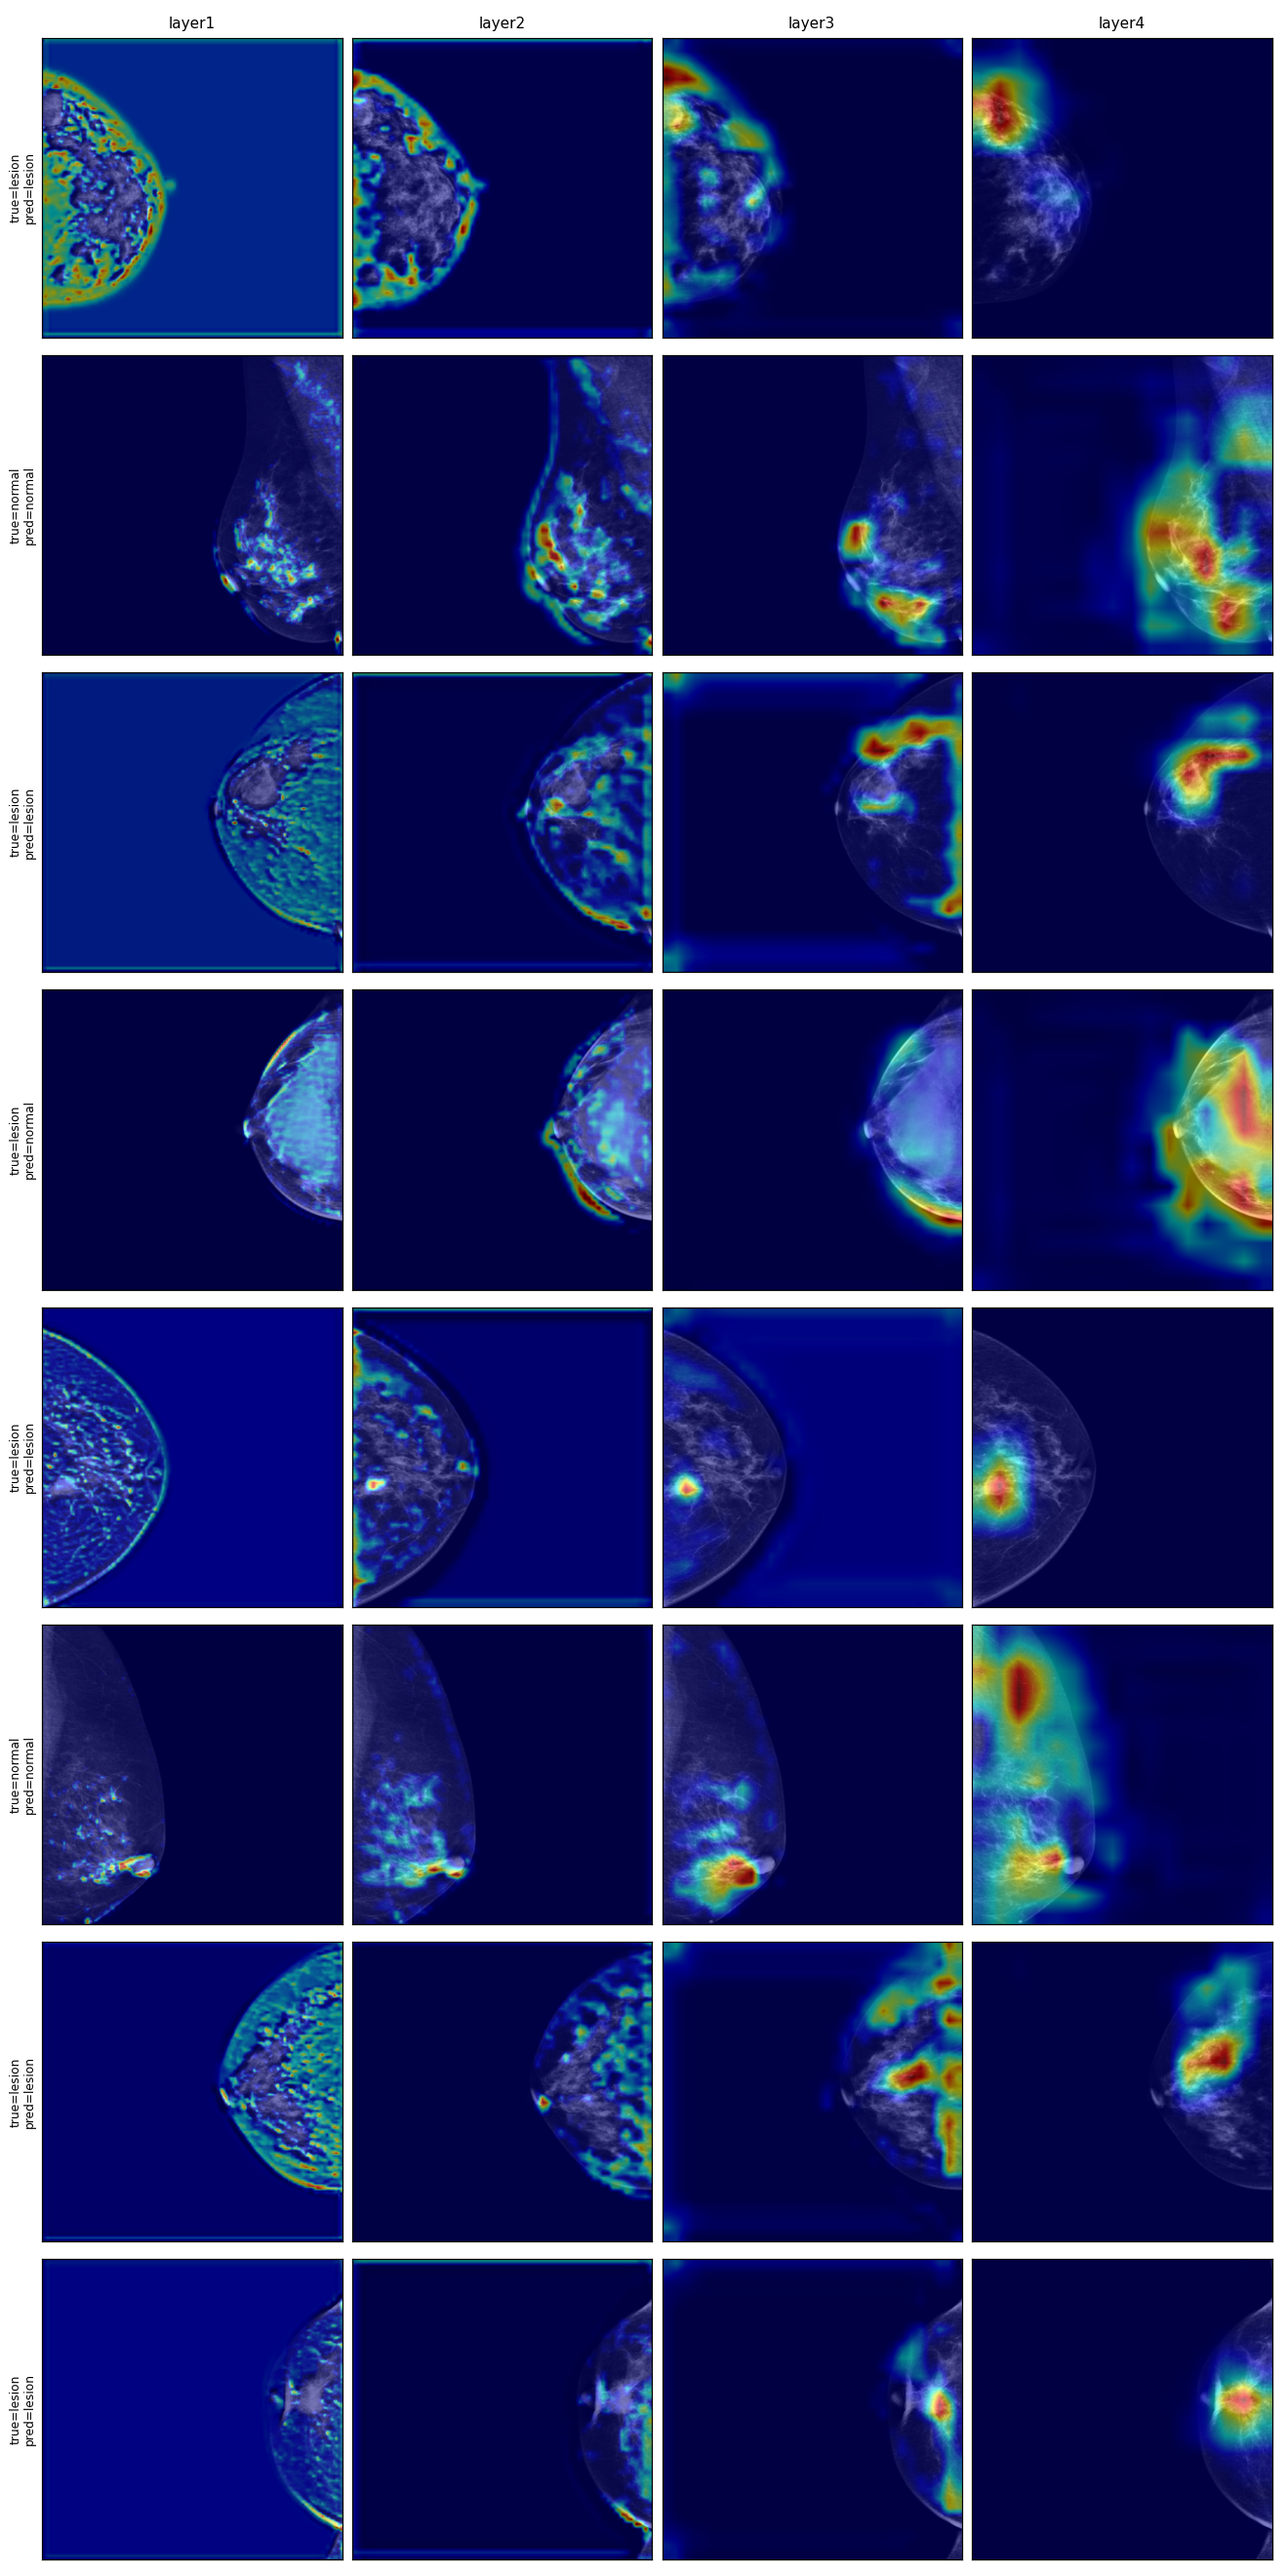
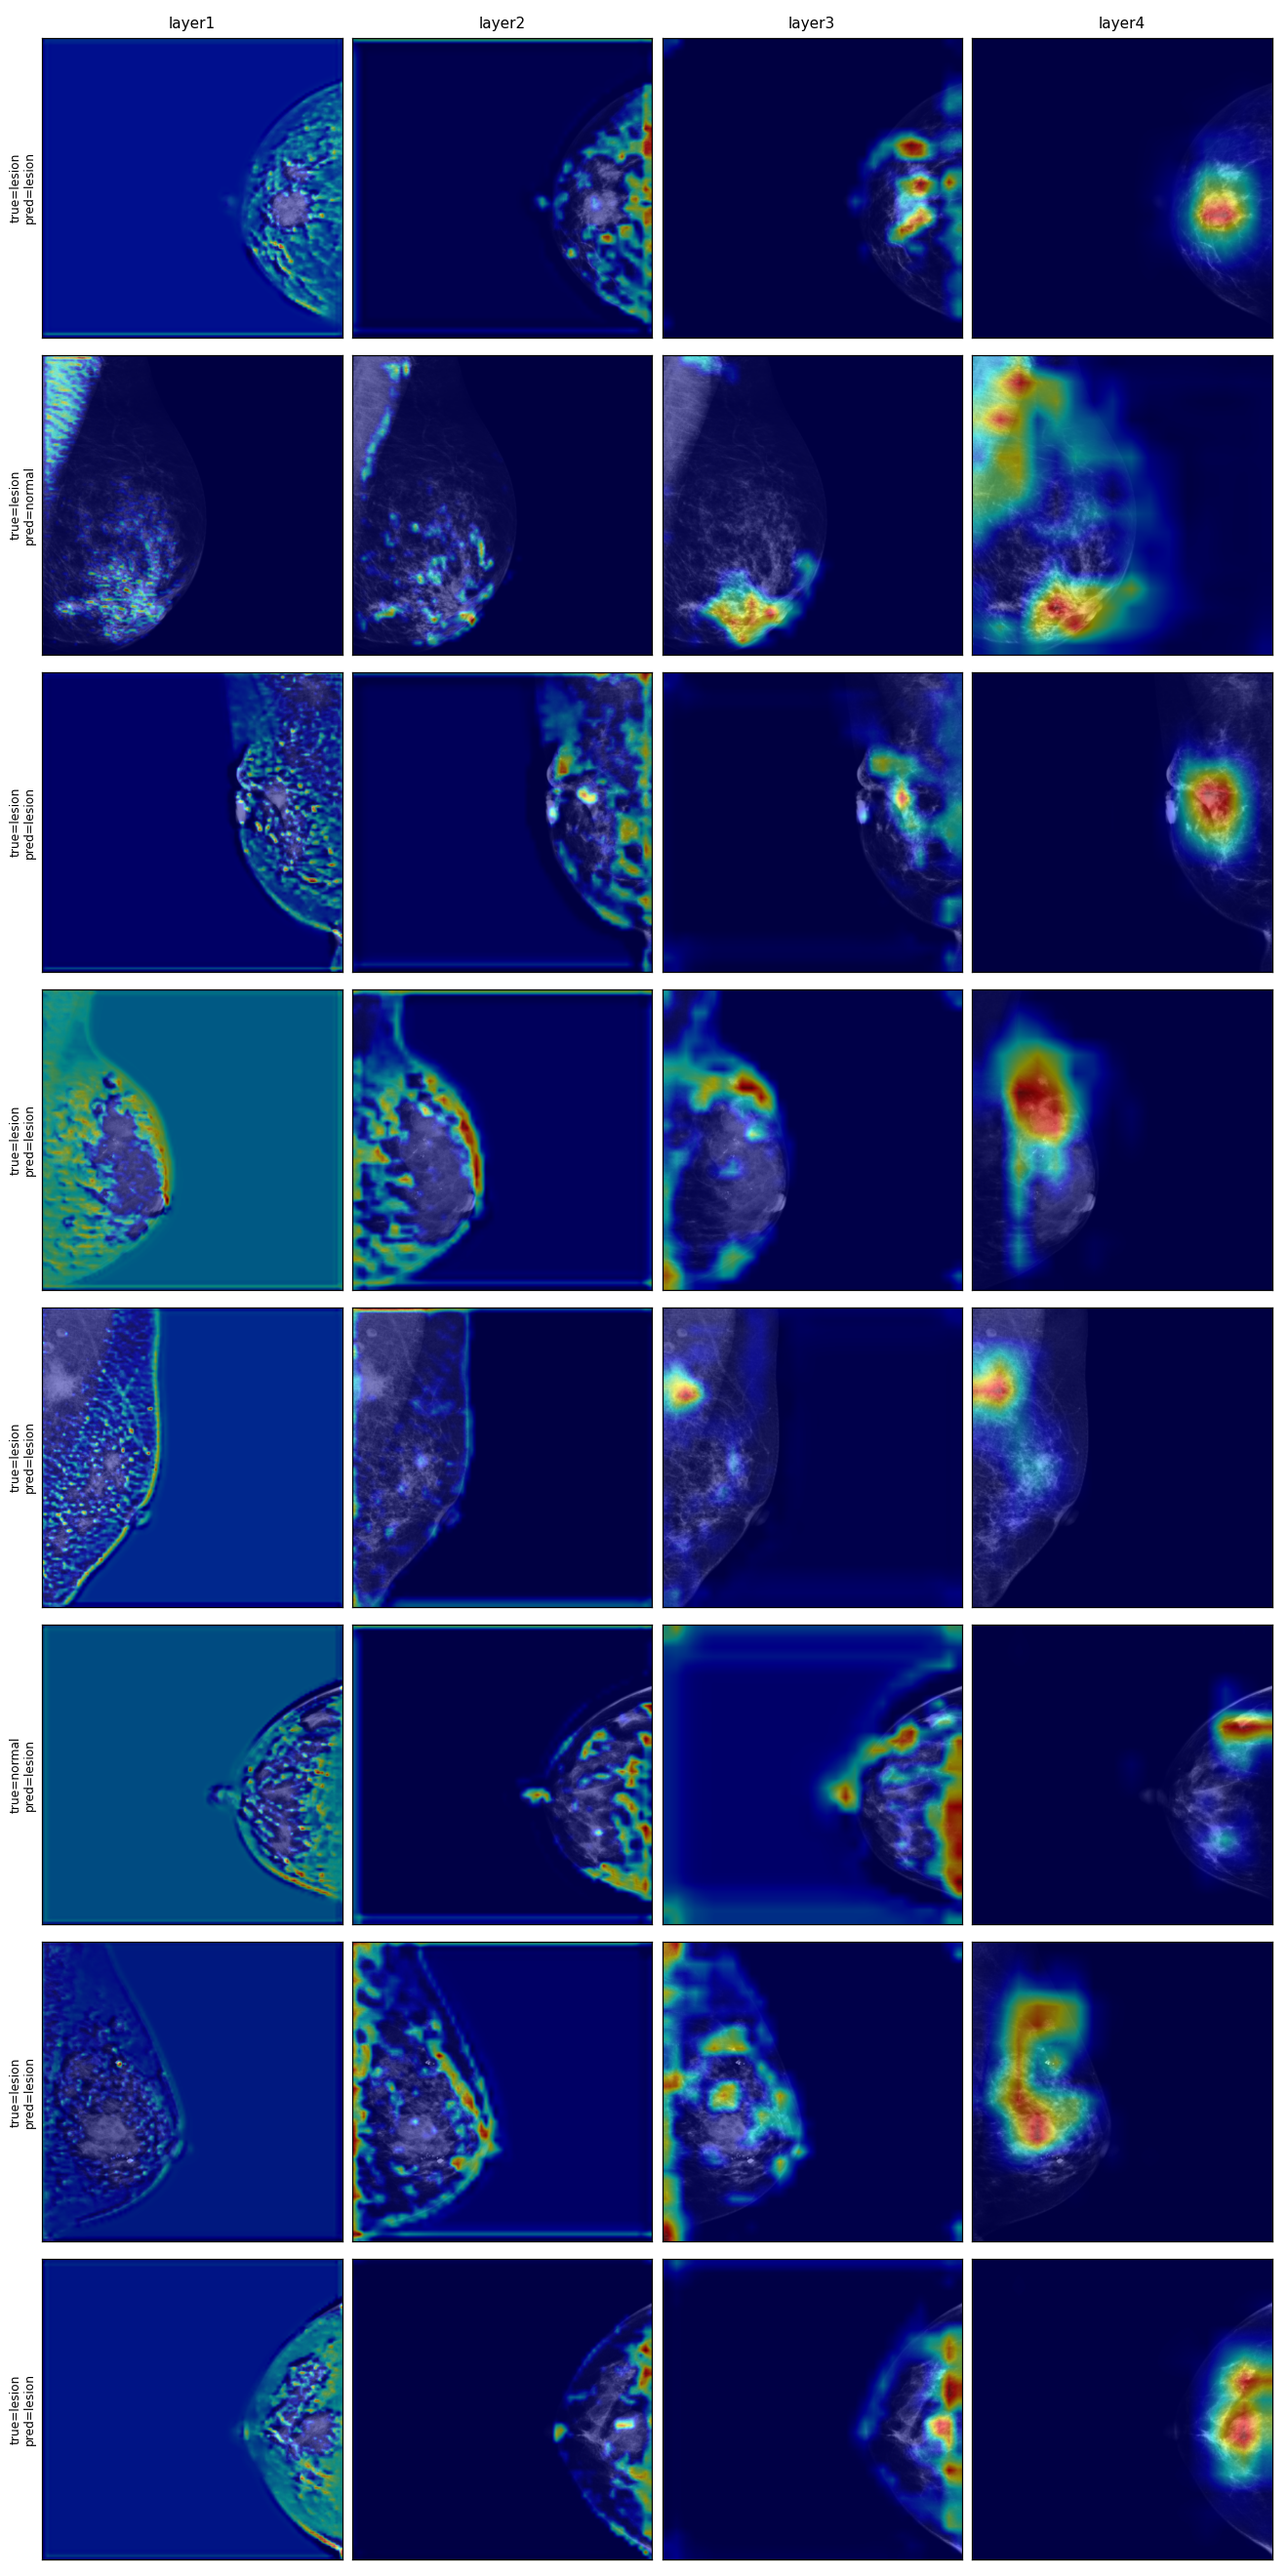
extended metrics & figures

diff --git a/fusionLearning/models/vis_cls.py b/fusionLearning/models/vis_cls.py
@@ -1,9 +1,25 @@
 import json
+import math
 import os
 
 import matplotlib
 import matplotlib.pyplot as plt
 import numpy as np
+
+
+def _prf1_mcc_from_cm(cm) -> dict:
+    """precision/recall/F1/MCC from a [[tn, fp], [fn, tp]] confusion matrix."""
+    (tn, fp), (fn, tp) = cm
+    tn, fp, fn, tp = float(tn), float(fp), float(fn), float(tp)
+
+    precision = tp / (tp + fp) if (tp + fp) > 0 else 0.0
+    recall = tp / (tp + fn) if (tp + fn) > 0 else 0.0
+    f1 = 2 * precision * recall / (precision + recall) if (precision + recall) > 0 else 0.0
+
+    mcc_denom = math.sqrt((tp + fp) * (tp + fn) * (tn + fp) * (tn + fn))
+    mcc = (tp * tn - fp * fn) / mcc_denom if mcc_denom > 0 else 0.0
+
+    return {"precision": precision, "recall": recall, "f1": f1, "mcc": mcc}
 
 
 def _plot_confusion_matrix(ax, cm, title):
@@ -117,3 +133,66 @@ def plot_metrics_cls(modelDir):
     plt.tight_layout()
     plt.savefig(os.path.join(modelDir, "figures", "confusion_matrix.png"), dpi=120)
     plt.close(fig2)
+
+
+def plot_extended_metrics_cls(modelDir):
+    """
+    Reads epoch_metrics.json and derives precision/recall/F1/MCC per epoch from the
+    train_cm/val_cm already saved by train_dist_cls (no re-evaluation needed). Saves
+    extended_metrics_cls.png to modelDir/figures/ - 5 stacked subplots (loss, F1,
+    precision, recall, MCC), each with train vs val curves over epochs.
+    """
+    matplotlib.use("Agg")
+
+    epoch_path = os.path.join(modelDir, "metrics", "epoch_metrics.json")
+    try:
+        with open(epoch_path) as f:
+            log = json.load(f)
+    except (FileNotFoundError, json.JSONDecodeError):
+        print(f"No valid metrics found at {epoch_path}; skipping extended metrics plot.")
+        return
+
+    epochs_data = log.get("epochs", log) if isinstance(log, dict) else log
+    if not epochs_data:
+        return
+
+    epochs = [d["epoch"] for d in epochs_data]
+    train_loss = [d["train_loss"] for d in epochs_data]
+    val_loss = [d["val_loss"] for d in epochs_data]
+
+    train_stats = [_prf1_mcc_from_cm(d["train_cm"]) for d in epochs_data]
+    val_stats = [_prf1_mcc_from_cm(d["val_cm"]) for d in epochs_data]
+
+    best_epoch = log.get("best", {}).get("epoch") if isinstance(log, dict) else None
+
+    panels = [
+        ("Loss", train_loss, val_loss, None),
+        ("F1", [s["f1"] for s in train_stats], [s["f1"] for s in val_stats], (0, 1)),
+        ("Precision", [s["precision"] for s in train_stats], [s["precision"] for s in val_stats], (0, 1)),
+        ("Recall", [s["recall"] for s in train_stats], [s["recall"] for s in val_stats], (0, 1)),
+        ("MCC", [s["mcc"] for s in train_stats], [s["mcc"] for s in val_stats], (-1, 1)),
+    ]
+
+    fig, axes = plt.subplots(len(panels), 1, figsize=(10, 4 * len(panels)), sharex=True)
+
+    for ax, (name, train_vals, val_vals, ylim) in zip(axes, panels):
+        ax.plot(epochs, train_vals, color="steelblue", label=f"Train {name}")
+        ax.plot(epochs, val_vals, color="tomato", label=f"Val {name}")
+        if best_epoch is not None:
+            ax.axvline(best_epoch, color="gray", linestyle=":", linewidth=1)
+        if ylim is not None:
+            ax.set_ylim(*ylim)
+        ax.set_ylabel(name)
+        ax.legend(); ax.grid(True, alpha=0.4)
+
+    axes[-1].set_xlabel("Epoch")
+
+    meta = log.get("meta", {}) if isinstance(log, dict) else {}
+    title_parts = [meta.get("arch", ""), meta.get("dataset", "")]
+    title = "  ·  ".join(p for p in title_parts if p)
+    if title:
+        fig.suptitle(title, fontsize=11)
+
+    plt.tight_layout()
+    plt.savefig(os.path.join(modelDir, "figures", "extended_metrics_cls.png"), dpi=120)
+    plt.close(fig)

diff --git a/fusionLearning/models/inference_cls.py b/fusionLearning/models/inference_cls.py
@@ -185,3 +185,72 @@ def gradcam_from_paths_cls(model, modelDir, test_dataloader, timm_name, family, 
     plt.tight_layout()
     plt.savefig(os.path.join(modelDir, "figures", f"gradcam_{timm_name}.png"), dpi=110)
     plt.close(fig)
+
+
+def gradcam_summary_cls(model, modelDir, test_dataloader, timm_name, family, n=20):
+    """
+    Saves a single n-sample grid (default 20) to modelDir/figures/gradcam_summary.png,
+    one Grad-CAM overlay per sample annotated with true label, predicted label, and
+    confidence (probability of the predicted class, so always in [0.5, 1]) - green
+    border on correct predictions, red on incorrect. Unlike gradcam_from_paths_cls
+    (per-stage columns for a handful of samples), this uses a single representative
+    layer - the deepest stage for cnn_staged families, the final block for
+    transformer_final - so a larger sample count fits in one readable figure.
+    """
+    strategy = gradcam_strategy(family)
+    device = next(model.parameters()).device
+    model.eval()
+
+    reshape_transform = None
+    if strategy == "cnn_staged":
+        layers = _resolve_stage_layers(model, timm_name)
+        if not layers:
+            print(f"gradcam_summary_cls: no target layers resolved for {timm_name}, skipping.")
+            return
+        target_layer = layers[-1][1]
+    else:
+        layers, reshape_transform = _resolve_final_layer(model, family)
+        target_layer = layers[-1][1]
+
+    dataset = test_dataloader.dataset
+    indices = _sample_indices(dataset, n)
+    n = len(indices)
+    cols = 5
+    rows = (n + cols - 1) // cols
+    fig, axes = plt.subplots(rows, cols, figsize=(cols * 3, rows * 3.4), squeeze=False)
+    axes = axes.reshape(-1)
+
+    # Grad-CAM needs gradients w.r.t. activations, so this must run outside
+    # torch.no_grad() even though the model is in .eval() mode.
+    with GradCAM(model=model, target_layers=[target_layer], reshape_transform=reshape_transform) as cam:
+        for ax_idx, idx in enumerate(indices):
+            image, label, filename = dataset[idx]
+            input_tensor = image.unsqueeze(0).to(device)
+            with torch.no_grad():
+                prob = torch.sigmoid(model(input_tensor)).item()
+            pred = 1 if prob >= 0.5 else 0
+            true = int(label.item())
+            correct = pred == true
+            confidence = prob if pred == 1 else 1 - prob
+
+            target = [BinaryClassifierOutputTarget(pred)]
+            grayscale_cam = cam(input_tensor=input_tensor, targets=target)[0]
+            rgb_img = image.permute(1, 2, 0).cpu().numpy()
+            overlay = show_cam_on_image(rgb_img, grayscale_cam, use_rgb=True)
+
+            ax = axes[ax_idx]
+            ax.imshow(overlay)
+            color = "seagreen" if correct else "firebrick"
+            ax.set_title(f"pred: {LABEL_NAMES[pred]} ({confidence:.2f})\ntrue: {LABEL_NAMES[true]}",
+                          fontsize=9, color=color)
+            for spine in ax.spines.values():
+                spine.set_edgecolor(color)
+                spine.set_linewidth(3)
+            ax.set_xticks([]); ax.set_yticks([])
+
+    for ax in axes[len(indices):]:
+        ax.axis("off")
+
+    plt.tight_layout()
+    plt.savefig(os.path.join(modelDir, "figures", "gradcam_summary.png"), dpi=130)
+    plt.close(fig)

diff --git a/fusionLearning/models/distributed_cls.py b/fusionLearning/models/distributed_cls.py
@@ -31,8 +31,10 @@ from fusionLearning.data.tompei_dataloader import create_tompei_cmmd_loaders_dis
 from fusionLearning.models.roster_cls import MODEL_CONFIGS, get_config
 from fusionLearning.models.train_cls import train_dist_cls
 from fusionLearning.models.test_cls import test_dist_cls
-from fusionLearning.models.vis_cls import plot_metrics_cls
-from fusionLearning.models.inference_cls import inference_from_paths_cls, gradcam_from_paths_cls
+from fusionLearning.models.vis_cls import plot_metrics_cls, plot_extended_metrics_cls
+from fusionLearning.models.inference_cls import (
+    inference_from_paths_cls, gradcam_from_paths_cls, gradcam_summary_cls,
+)
 import fusionLearning.models.distributed as _seg_distributed
 from fusionLearning.models.distributed import ddp_setup
 from fusionLearning.models.inference import copy_best_model_to_weights
@@ -151,9 +153,11 @@ def main(rank, world_size, variant_id, dset="TOMPEI-CMMD"):
 
         if rank == 0:
             plot_metrics_cls(modelDir)
+            plot_extended_metrics_cls(modelDir)
             eval_model = model.module if isinstance(model, DDP) else model
             inference_from_paths_cls(eval_model, modelDir, test_dataloader, n=20)
             gradcam_from_paths_cls(eval_model, modelDir, test_dataloader, timm_name, family, n=8)
+            gradcam_summary_cls(eval_model, modelDir, test_dataloader, timm_name, family, n=20)
             print(f"\n\t * Results and visualizations saved under {modelDir} * ")
 
         copy_best_model_to_weights(modelDir)
